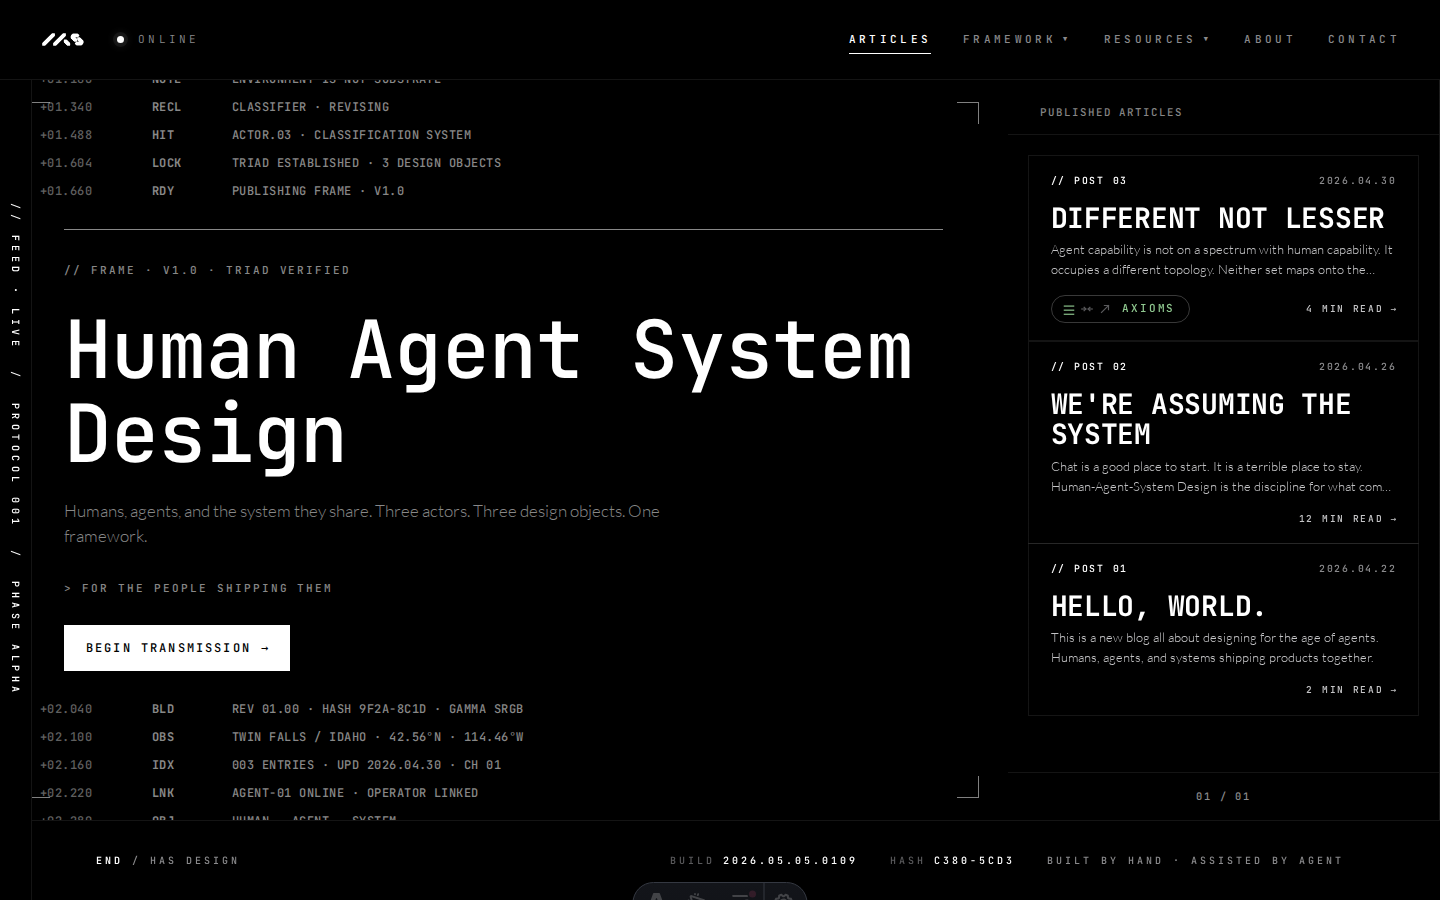
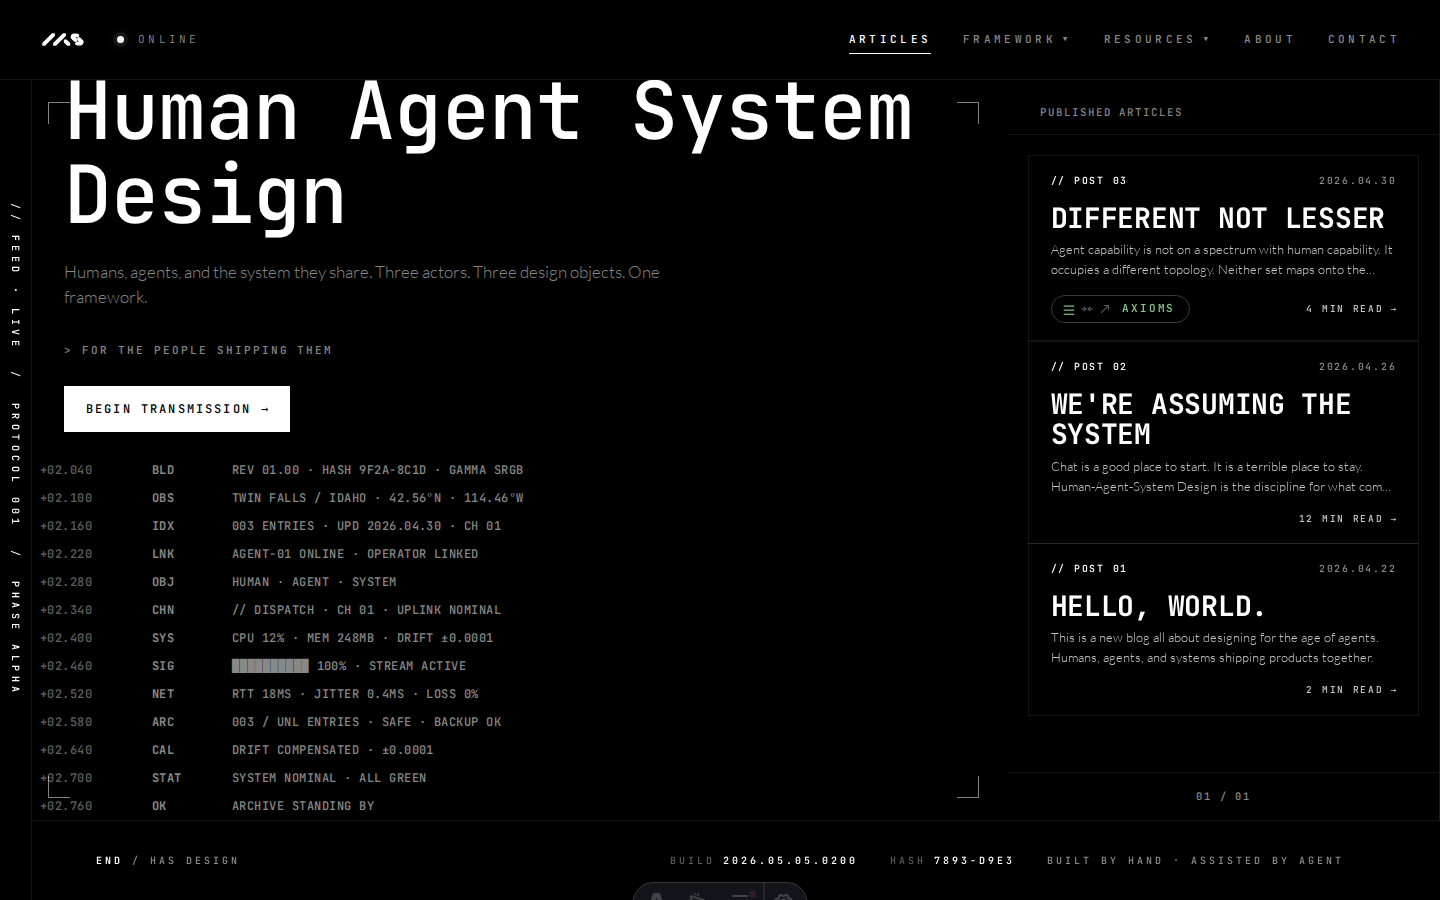
fix(hero): push everything up from the bottom + clear left rail
Two fixes from feedback on the boot reveal:

- Frame-viewport: drop grid 1fr auto 1fr, use flex column with
  justify-content: flex-end. Top scan, frame-block, and bot scan
  are now siblings in a single bottom-anchored stack. Each
  reveal pushes the whole stack up from the viewport bottom; the
  oldest top-scan lines clip past the top edge as more content
  enters at the bottom. Lockup is no longer floating in the
  middle of the column.
- Corner brackets: the left two (TL/BL) were clipping behind
  the page rail. Bumped left:28px → 48px to clear it. Right
  brackets keep right:28px since there's no rail on that side.

Changed region(s): [[0.0312, 0.0933, 0.4688, 0.9022], [0.4375, 0.3422, 0.6562, 0.4356], [0.4375, 0.0933, 0.6562, 0.1867]]

diff --git a/src/styles/homepage.css b/src/styles/homepage.css
@@ -398,30 +398,28 @@ body.hero-sequence-play .protocol-chip.is-typed {
   position: relative;
 }
 
-/* ILI-818 — three-row grid lays out the lockup centered with
-   scan stacks above and below. Top stack bottom-anchors against
-   the frame-block (newest line nearest the message), bottom
-   stack top-anchors. overflow:hidden so excess scan lines
-   clip terminal-style. */
+/* ILI-818 — single bottom-anchored flex column. Top scan,
+   frame-block, and bottom scan stack as siblings; all push
+   up from the bottom of the viewport as each line reveals.
+   overflow:hidden lets the oldest top-scan lines clip past
+   the top edge terminal-style. */
 .frame-viewport {
   position: relative;
   flex: 1 1 auto;
   min-height: 0;
   overflow: hidden;
-  display: grid;
-  grid-template-rows: 1fr auto 1fr;
+  display: flex;
+  flex-direction: column;
+  justify-content: flex-end;
 }
 
 .scan-stack {
   display: flex;
   flex-direction: column;
+  justify-content: flex-end;
   padding: 0 40px;
   pointer-events: none;
-  overflow: hidden;
-  min-height: 0;
 }
-.scan-stack--top { grid-row: 1; justify-content: flex-end; }
-.scan-stack--bot { grid-row: 3; justify-content: flex-start; }
 
 /* Canonical reveal — scan-line and frame-line use the same
    max-height + opacity transition. Default state is VISIBLE
@@ -463,7 +461,6 @@ body.is-index-booting .scan-line.is-visible {
 .scan-line .scan-d { color: #888888; }
 
 .frame-block {
-  grid-row: 2;
   background: transparent;
   padding: 24px 64px;
   display: flex;
@@ -634,9 +631,11 @@ body.is-index-booting .scan-line.is-visible {
   z-index: 3;
   opacity: 0.5;
 }
-.frame-corner--tl { top: 22px; left: 28px; border-right: none; border-bottom: none; }
+/* Left brackets get +20px to clear the page rail; the col-hero
+   left edge sits flush against the rail so 28px isn't enough. */
+.frame-corner--tl { top: 22px; left: 48px; border-right: none; border-bottom: none; }
 .frame-corner--tr { top: 22px; right: 28px; border-left: none; border-bottom: none; }
-.frame-corner--bl { bottom: 22px; left: 28px; border-right: none; border-top: none; }
+.frame-corner--bl { bottom: 22px; left: 48px; border-right: none; border-top: none; }
 .frame-corner--br { bottom: 22px; right: 28px; border-left: none; border-top: none; }
 body.is-index-booting .frame-corner {
   opacity: 0;

diff --git a/tests/ili-818-verify.spec.ts b/tests/ili-818-verify.spec.ts
@@ -66,10 +66,17 @@ test.describe('ILI-818 — hero boot reveal', () => {
     expect(counts.botTotal).toBeGreaterThanOrEqual(13);
     expect(counts.cornerTotal).toBe(4);
 
-    // Lockup centered via grid: frame-block sits in row 2 of a
-    // 1fr auto 1fr grid, so the kept content is vertically centered.
-    const gridRows = await page.locator('.frame-viewport').evaluate((el) => getComputedStyle(el).gridTemplateRows);
-    expect(gridRows).toMatch(/[\d.]+px (auto|[\d.]+px) [\d.]+px/);
+    // Bottom-anchored stack: frame-viewport is flex column with
+    // justify-content: flex-end, so all 3 children push up from
+    // the bottom of the viewport as each line reveals.
+    const flow = await page.locator('.frame-viewport').evaluate((el) => ({
+      display: getComputedStyle(el).display,
+      direction: getComputedStyle(el).flexDirection,
+      justify: getComputedStyle(el).justifyContent,
+    }));
+    expect(flow.display).toBe('flex');
+    expect(flow.direction).toBe('column');
+    expect(flow.justify).toBe('flex-end');
 
     await page.screenshot({
       path: 'verification-screenshots/ili-818-boot-end.png',
